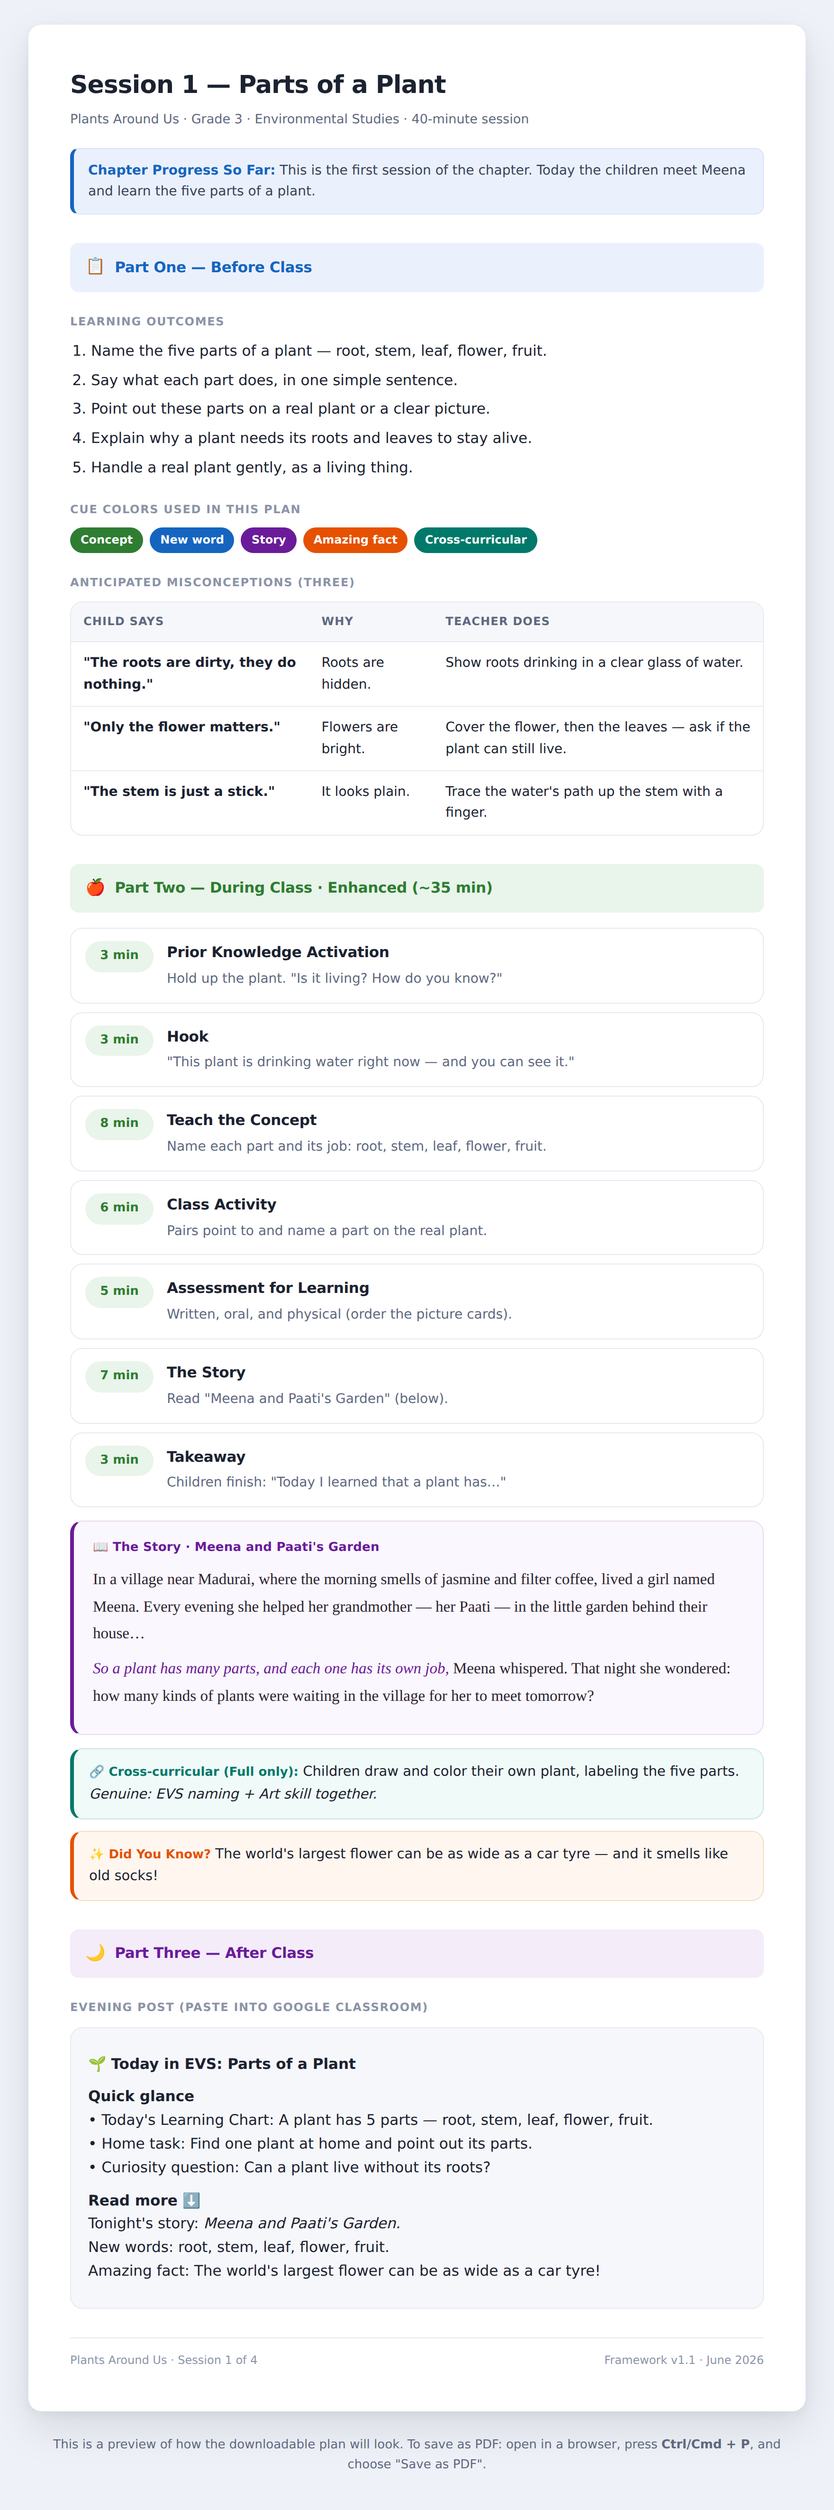
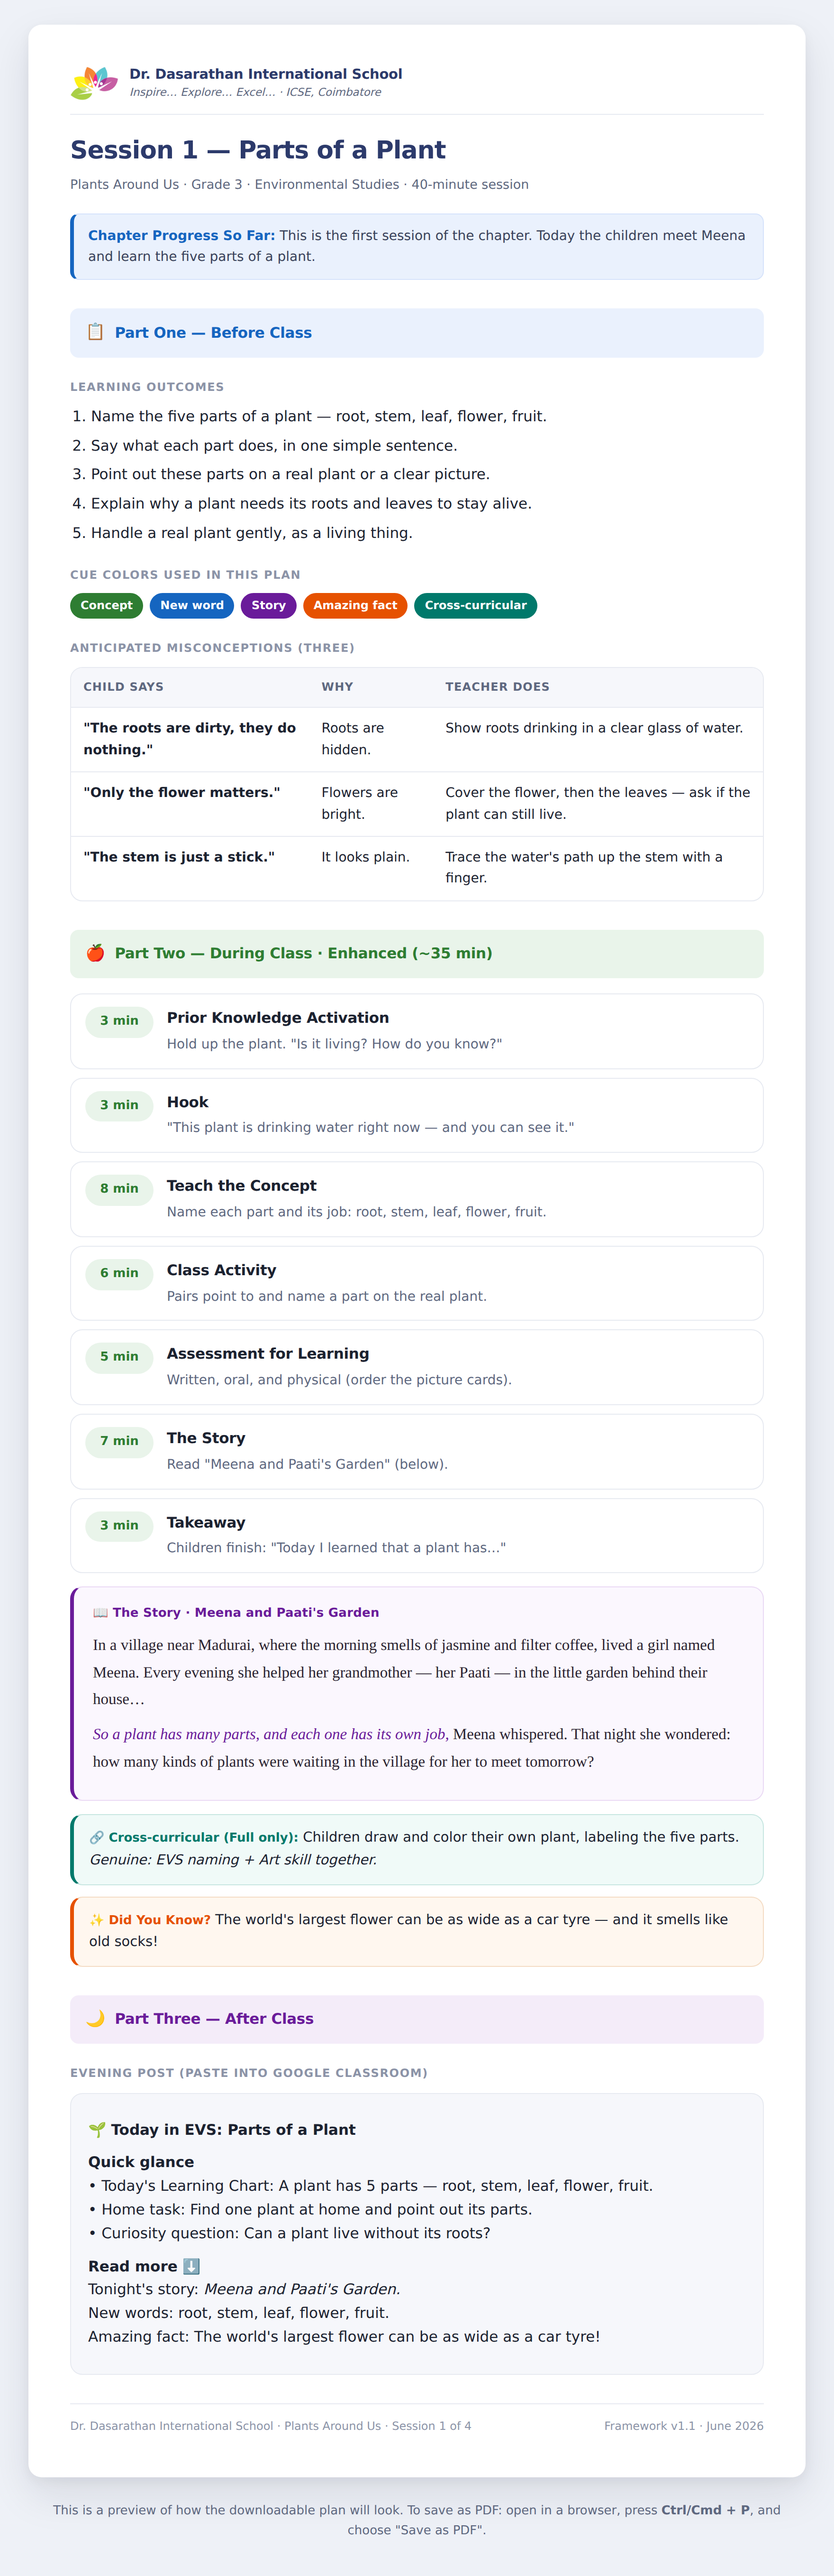
Customize for Dr. Dasarathan International School (ICSE, Coimbatore)
- Add school logo assets (original, trimmed lockup, flower-only mark)
- Header: flower mark + school name (navy) + 'ICSE · Coimbatore'
- Hero motto eyebrow and navy headings drawn from the logo lettering
- Footer: logo, school name, 'Inspire… Explore… Excel…' motto
- Starter message notes the school + Coimbatore so plans ground in Tamil Nadu
- Lesson-plan output stamped with a school header strip and footer
- Favicon set to the school mark

Claude-Session: https://claude.ai/code/session_017r7cfmC9czkWoG9guPkgLf

diff --git a/styles.css b/styles.css
@@ -16,6 +16,10 @@
   --surface:#ffffff;
   --surface-2:#fbfcfe;
 
+  /* School identity — navy from the logo lettering */
+  --navy:#2c3a6b;
+  --navy-soft:#eef1f8;
+
   /* Brand (green) + tints */
   --brand:#2f7d34;
   --brand-dark:#256528;
@@ -75,17 +79,26 @@ img{max-width:100%; display:block;}
 .site-header{
   position:sticky; top:0; z-index:20;
   display:flex; align-items:center; gap:12px;
-  padding:14px 20px;
-  background:rgba(255,255,255,.82);
+  padding:11px 18px;
+  background:rgba(255,255,255,.85);
   backdrop-filter:saturate(160%) blur(10px);
   -webkit-backdrop-filter:saturate(160%) blur(10px);
   border-bottom:1px solid var(--line);
 }
-.brand{display:flex; align-items:center; gap:9px; font-weight:800; font-size:18px; letter-spacing:-.02em;}
-.brand-mark{font-size:18px; line-height:1;}
+.brand{display:flex; align-items:center; gap:11px; text-decoration:none; min-width:0;}
+.brand-logo{height:38px; width:auto; flex:none;}
+.brand-text{display:flex; flex-direction:column; line-height:1.15; min-width:0;}
+.brand-name{font-weight:800; font-size:15px; letter-spacing:-.01em; color:var(--navy);
+  white-space:nowrap; overflow:hidden; text-overflow:ellipsis;}
+.brand-sub{font-size:11.5px; font-weight:600; color:var(--soft); letter-spacing:.02em;}
 .brand-tag{
-  margin-left:auto; color:var(--brand-700); font-size:12.5px; font-weight:600;
+  margin-left:auto; flex:none; color:var(--brand-700); font-size:12.5px; font-weight:600;
   padding:5px 12px; background:var(--brand-soft); border-radius:var(--pill);
+}
+@media(max-width:520px){
+  .brand-name{font-size:13.5px; white-space:normal;}
+  .brand-sub, .brand-tag{display:none;}
+  .brand-logo{height:34px;}
 }
 
 /* =====================================================================
@@ -96,14 +109,14 @@ img{max-width:100%; display:block;}
   padding:clamp(40px,8vw,72px) 20px clamp(24px,4vw,34px);
 }
 .eyebrow{
-  display:inline-flex; align-items:center; gap:7px;
-  font-size:12.5px; font-weight:600; color:var(--brand-700);
-  background:var(--brand-soft); border:1px solid #d6ebd8;
-  padding:6px 13px; border-radius:var(--pill); margin:0 0 20px;
+  display:inline-flex; align-items:center; gap:8px;
+  font-size:13px; font-weight:700; font-style:italic; letter-spacing:.01em; color:var(--navy);
+  background:var(--navy-soft); border:1px solid #dde3f2;
+  padding:6px 15px; border-radius:var(--pill); margin:0 0 20px;
 }
 .hero h1{
   font-size:var(--fs-hero); line-height:1.08; letter-spacing:-.03em;
-  margin:0 0 16px; font-weight:800; color:var(--ink);
+  margin:0 0 16px; font-weight:800; color:var(--navy);
 }
 .lead{
   font-size:var(--fs-lead); line-height:1.55; color:var(--soft);
@@ -138,7 +151,7 @@ img{max-width:100%; display:block;}
    ===================================================================== */
 .how{max-width:var(--maxw); margin-inline:auto; padding:clamp(20px,4vw,40px) 20px 8px;}
 .how h2, .start h2, .sample h2{
-  font-size:var(--fs-h2); letter-spacing:-.02em; text-align:center; margin:0 0 8px; font-weight:800;
+  font-size:var(--fs-h2); letter-spacing:-.02em; text-align:center; margin:0 0 8px; font-weight:800; color:var(--navy);
 }
 .section-sub{text-align:center; color:var(--soft); margin:0 auto clamp(22px,3vw,30px); max-width:520px; font-size:15px;}
 .steps{display:grid; grid-template-columns:1fr; gap:14px;}
@@ -250,4 +263,11 @@ select{
 /* =====================================================================
    Footer
    ===================================================================== */
-.site-footer{text-align:center; color:var(--faint); font-size:13px; padding:clamp(40px,6vw,64px) 20px 40px;}
+.site-footer{
+  text-align:center; padding:clamp(40px,6vw,64px) 20px 44px;
+  display:flex; flex-direction:column; align-items:center; gap:7px;
+}
+.footer-logo{height:40px; width:auto; margin-bottom:4px; opacity:.95;}
+.footer-school{font-weight:800; color:var(--navy); font-size:15px; letter-spacing:-.01em;}
+.footer-motto{font-style:italic; color:var(--brand-dark); font-size:13.5px; font-weight:600;}
+.footer-meta{color:var(--faint); font-size:12.5px;}

diff --git a/docs/preview/session-plan-preview.html b/docs/preview/session-plan-preview.html
@@ -3,7 +3,8 @@
 <head>
 <meta charset="UTF-8" />
 <meta name="viewport" content="width=device-width, initial-scale=1.0" />
-<title>Session Plan — Plants Around Us · Session 1</title>
+<title>Session Plan — Plants Around Us · Session 1 · Dr. Dasarathan International School</title>
+<link rel="icon" type="image/png" href="../../assets/school-mark.png" />
 <link rel="preconnect" href="https://fonts.googleapis.com" />
 <link rel="preconnect" href="https://fonts.gstatic.com" crossorigin />
 <link href="https://fonts.googleapis.com/css2?family=Inter:wght@400;500;600;700;800&family=Lora:ital,wght@0,500;1,500&display=swap" rel="stylesheet" />
@@ -12,6 +13,7 @@
     --ink:#1b2230; --ink-2:#39425a; --soft:#5e6880; --faint:#8b93a7;
     --line:#e7eaf1; --softbg:#f6f7fb;
     --green:#2E7D32; --blue:#1565C0; --purple:#6A1B9A; --orange:#E65100; --teal:#00796B;
+    --navy:#2c3a6b;
     --p1bg:#eaf1fd; --p2bg:#e9f4ea; --p3bg:#f4ecf9;
     --shadow:0 18px 44px rgba(16,24,40,.10), 0 4px 12px rgba(16,24,40,.05);
     --r:13px; --r-sm:9px; --pill:999px;
@@ -28,7 +30,11 @@
     background:#fff; max-width:820px; margin:clamp(14px,3vw,28px) auto;
     padding:clamp(22px,5vw,46px); box-shadow:var(--shadow); border-radius:14px;
   }
-  .doc-title{font-size:clamp(21px,3.4vw,26px); font-weight:800; letter-spacing:-.02em; margin:0 0 4px;}
+  .schoolbar{display:flex; align-items:center; gap:11px; padding-bottom:14px; margin-bottom:18px; border-bottom:1px solid var(--line);}
+  .schoolbar img{height:36px; width:auto; flex:none;}
+  .schoolbar .nm{font-weight:800; color:var(--navy); font-size:14.5px; line-height:1.2; letter-spacing:-.01em;}
+  .schoolbar .mt{font-size:11.5px; color:var(--soft); font-style:italic;}
+  .doc-title{font-size:clamp(21px,3.4vw,26px); font-weight:800; letter-spacing:-.02em; margin:0 0 4px; color:var(--navy);}
   .doc-sub{color:var(--soft); font-size:13.5px; margin:0 0 18px;}
 
   .progress{
@@ -129,6 +135,13 @@
 <body>
 
 <div class="sheet">
+  <div class="schoolbar">
+    <img src="../../assets/school-mark.png" alt="Dr. Dasarathan International School logo" />
+    <div>
+      <div class="nm">Dr. Dasarathan International School</div>
+      <div class="mt">Inspire… Explore… Excel… · ICSE, Coimbatore</div>
+    </div>
+  </div>
   <p class="doc-title">Session 1 — Parts of a Plant</p>
   <p class="doc-sub">Plants Around Us · Grade 3 · Environmental Studies · 40-minute session</p>
 
@@ -218,7 +231,7 @@
       Amazing fact: The world's largest flower can be as wide as a car tyre!</p>
   </div>
 
-  <div class="foot"><span>Plants Around Us · Session 1 of 4</span><span>Framework v1.1 · June 2026</span></div>
+  <div class="foot"><span>Dr. Dasarathan International School · Plants Around Us · Session 1 of 4</span><span>Framework v1.1 · June 2026</span></div>
 </div>
 
 <p class="note">This is a preview of how the downloadable plan will look. To save as PDF: open in a browser, press <b>Ctrl/Cmd + P</b>, and choose "Save as PDF".</p>

diff --git a/index.html b/index.html
@@ -3,8 +3,9 @@
 <head>
   <meta charset="UTF-8" />
   <meta name="viewport" content="width=device-width, initial-scale=1.0" />
-  <title>Ed-Assist · Lesson Plans for Teachers</title>
-  <meta name="description" content="Plan a whole chapter in minutes. Answer five small questions and get complete, ready-to-teach session plans — built around a story your children will love." />
+  <title>Dr. Dasarathan International School · Lesson Planner</title>
+  <meta name="description" content="Lesson Planner for Dr. Dasarathan International School (ICSE, Coimbatore). Answer five small questions and get complete, ready-to-teach session plans — built around a story your children will love." />
+  <link rel="icon" type="image/png" href="assets/school-mark.png" />
   <link rel="preconnect" href="https://fonts.googleapis.com" />
   <link rel="preconnect" href="https://fonts.gstatic.com" crossorigin />
   <link href="https://fonts.googleapis.com/css2?family=Inter:wght@400;500;600;700;800&display=swap" rel="stylesheet" />
@@ -12,17 +13,20 @@
 </head>
 <body>
   <header class="site-header">
-    <div class="brand">
-      <span class="brand-mark">🌱</span>
-      <span class="brand-name">Ed-Assist</span>
-    </div>
-    <span class="brand-tag">Lesson Plans for Teachers</span>
+    <a class="brand" href="#top">
+      <img class="brand-logo" src="assets/school-mark.png" alt="Dr. Dasarathan International School logo" />
+      <span class="brand-text">
+        <span class="brand-name">Dr. Dasarathan International School</span>
+        <span class="brand-sub">ICSE · Coimbatore</span>
+      </span>
+    </a>
+    <span class="brand-tag">Lesson Planner</span>
   </header>
 
-  <main>
+  <main id="top">
     <!-- HERO -->
     <section class="hero">
-      <span class="eyebrow">🌱 For teachers · Free to use</span>
+      <span class="eyebrow">Inspire… Explore… Excel…</span>
       <h1>Plan a whole chapter in minutes.</h1>
       <p class="lead">
         Answer five small questions and get complete, ready-to-teach session plans —
@@ -136,7 +140,10 @@
   </main>
 
   <footer class="site-footer">
-    <span>Ed-Assist · Lesson Plans for Teachers · Version 1</span>
+    <img class="footer-logo" src="assets/school-mark.png" alt="" />
+    <span class="footer-school">Dr. Dasarathan International School</span>
+    <span class="footer-motto">Inspire… Explore… Excel…</span>
+    <span class="footer-meta">ICSE · Coimbatore · Lesson Planner · Powered by Ed-Assist</span>
   </footer>
 
   <script src="app.js"></script>

diff --git a/app.js b/app.js
@@ -15,7 +15,8 @@
 
   function buildStarter(d) {
     return [
-      "Hello! I would like to plan a chapter. Here are my details:",
+      "Hello! I teach at Dr. Dasarathan International School, an ICSE school in",
+      "Coimbatore, Tamil Nadu. I would like to plan a chapter. Here are my details:",
       "",
       "• Chapter Number: " + d.chapterNo,
       "• Chapter Name: " + d.chapterName,
